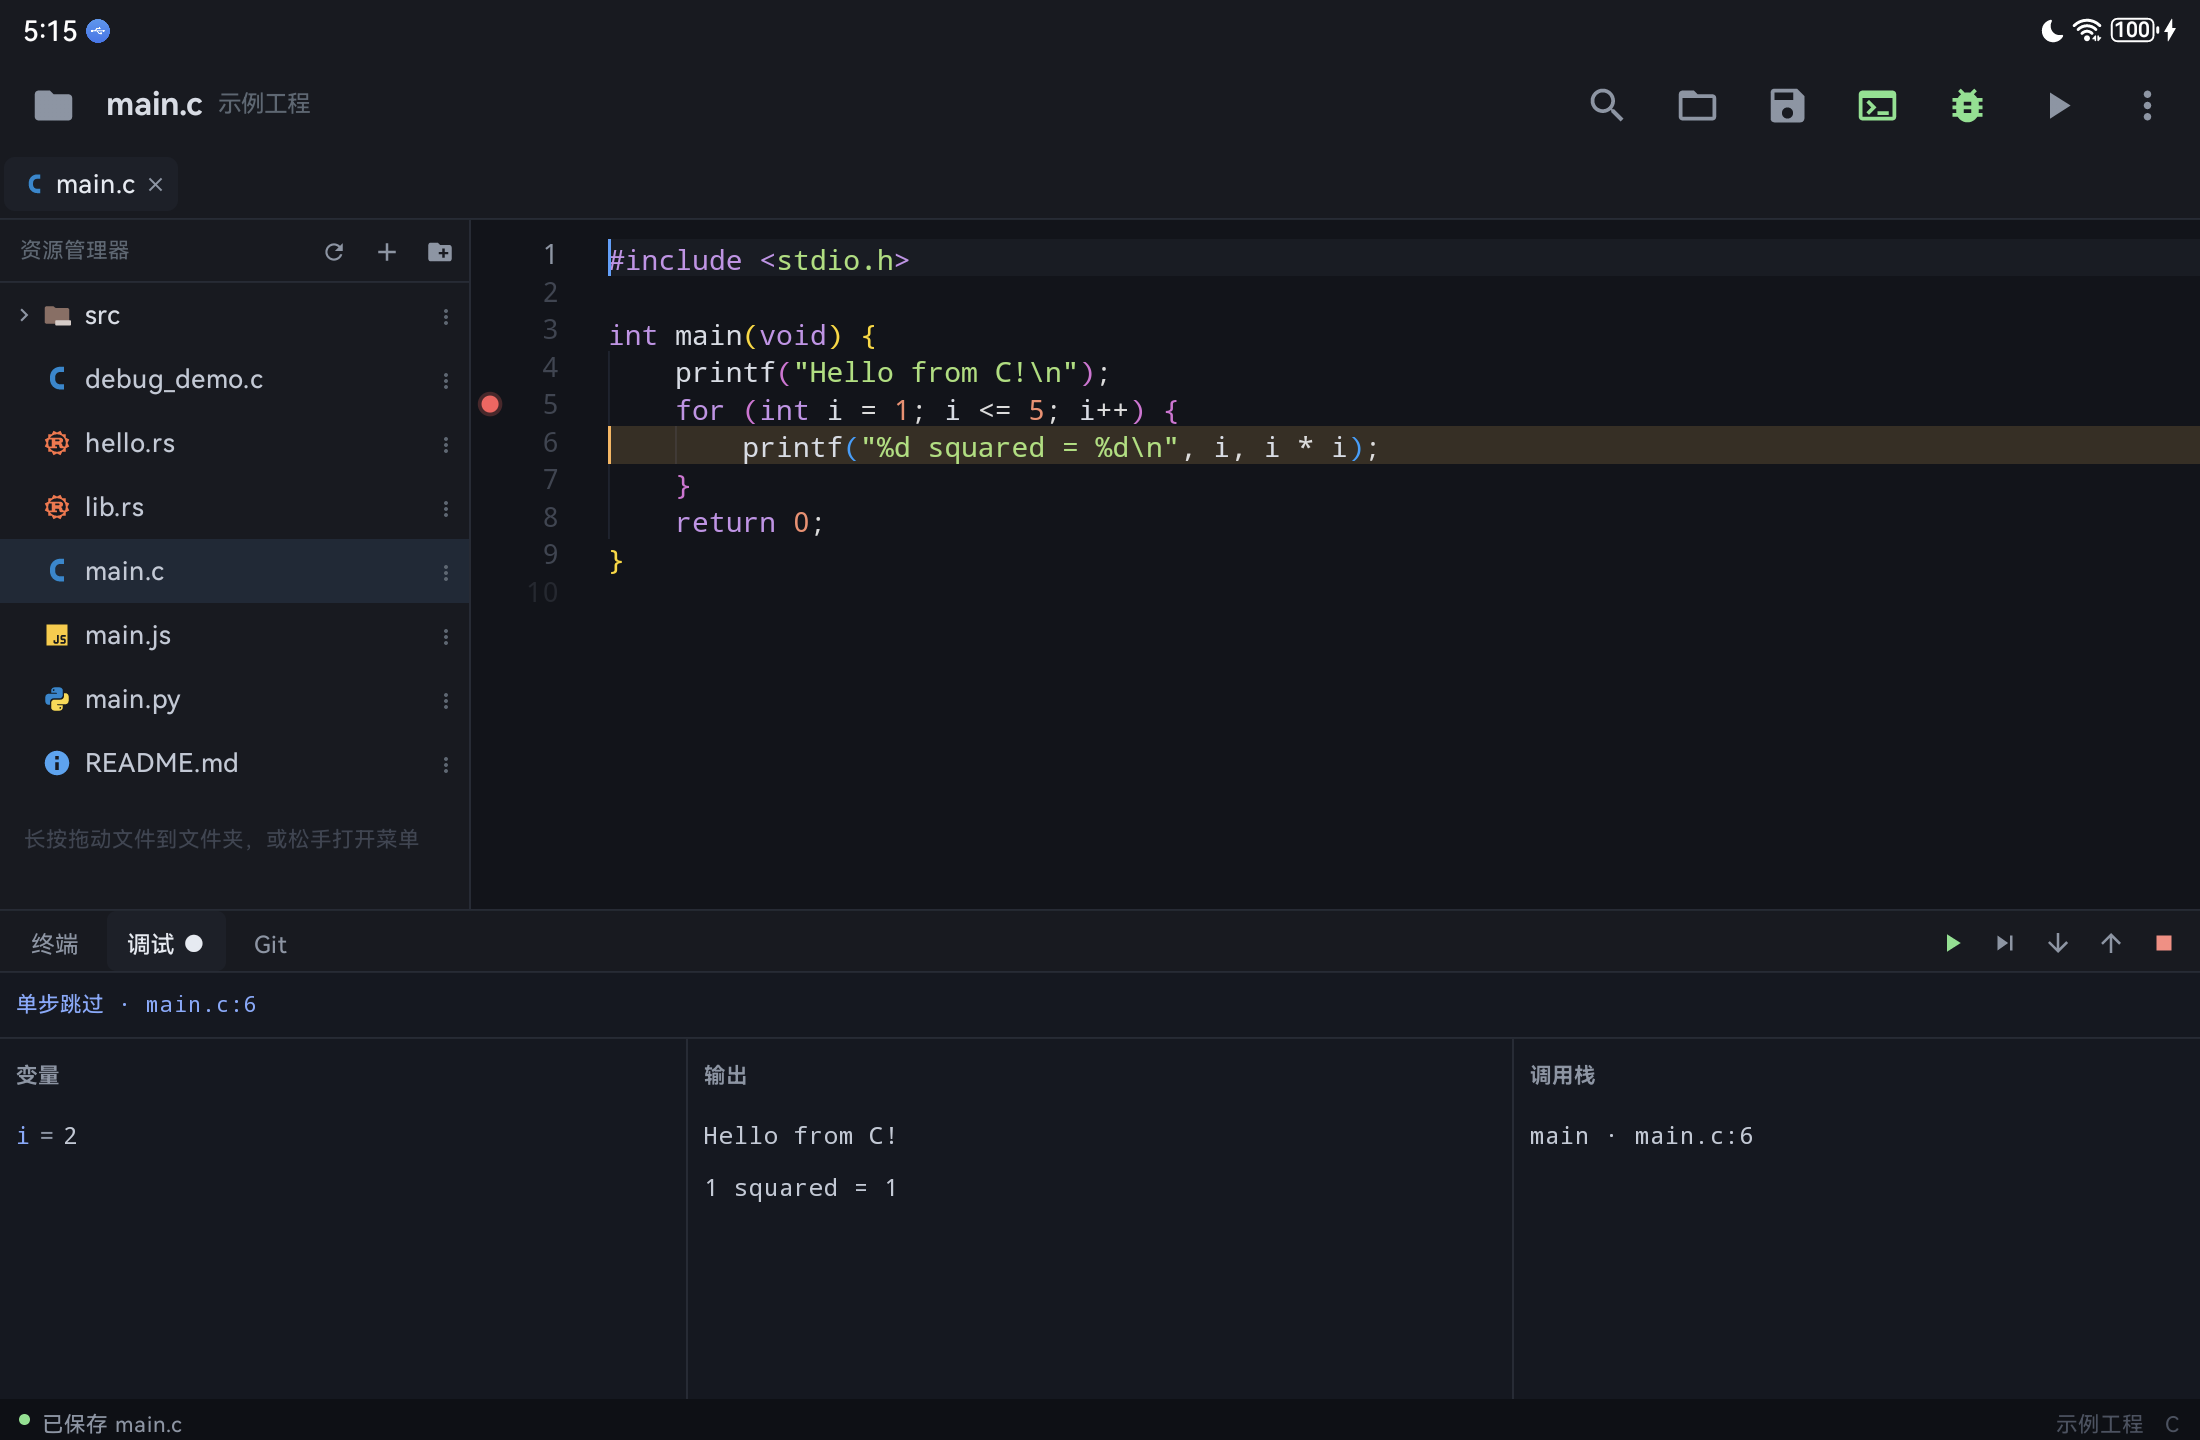
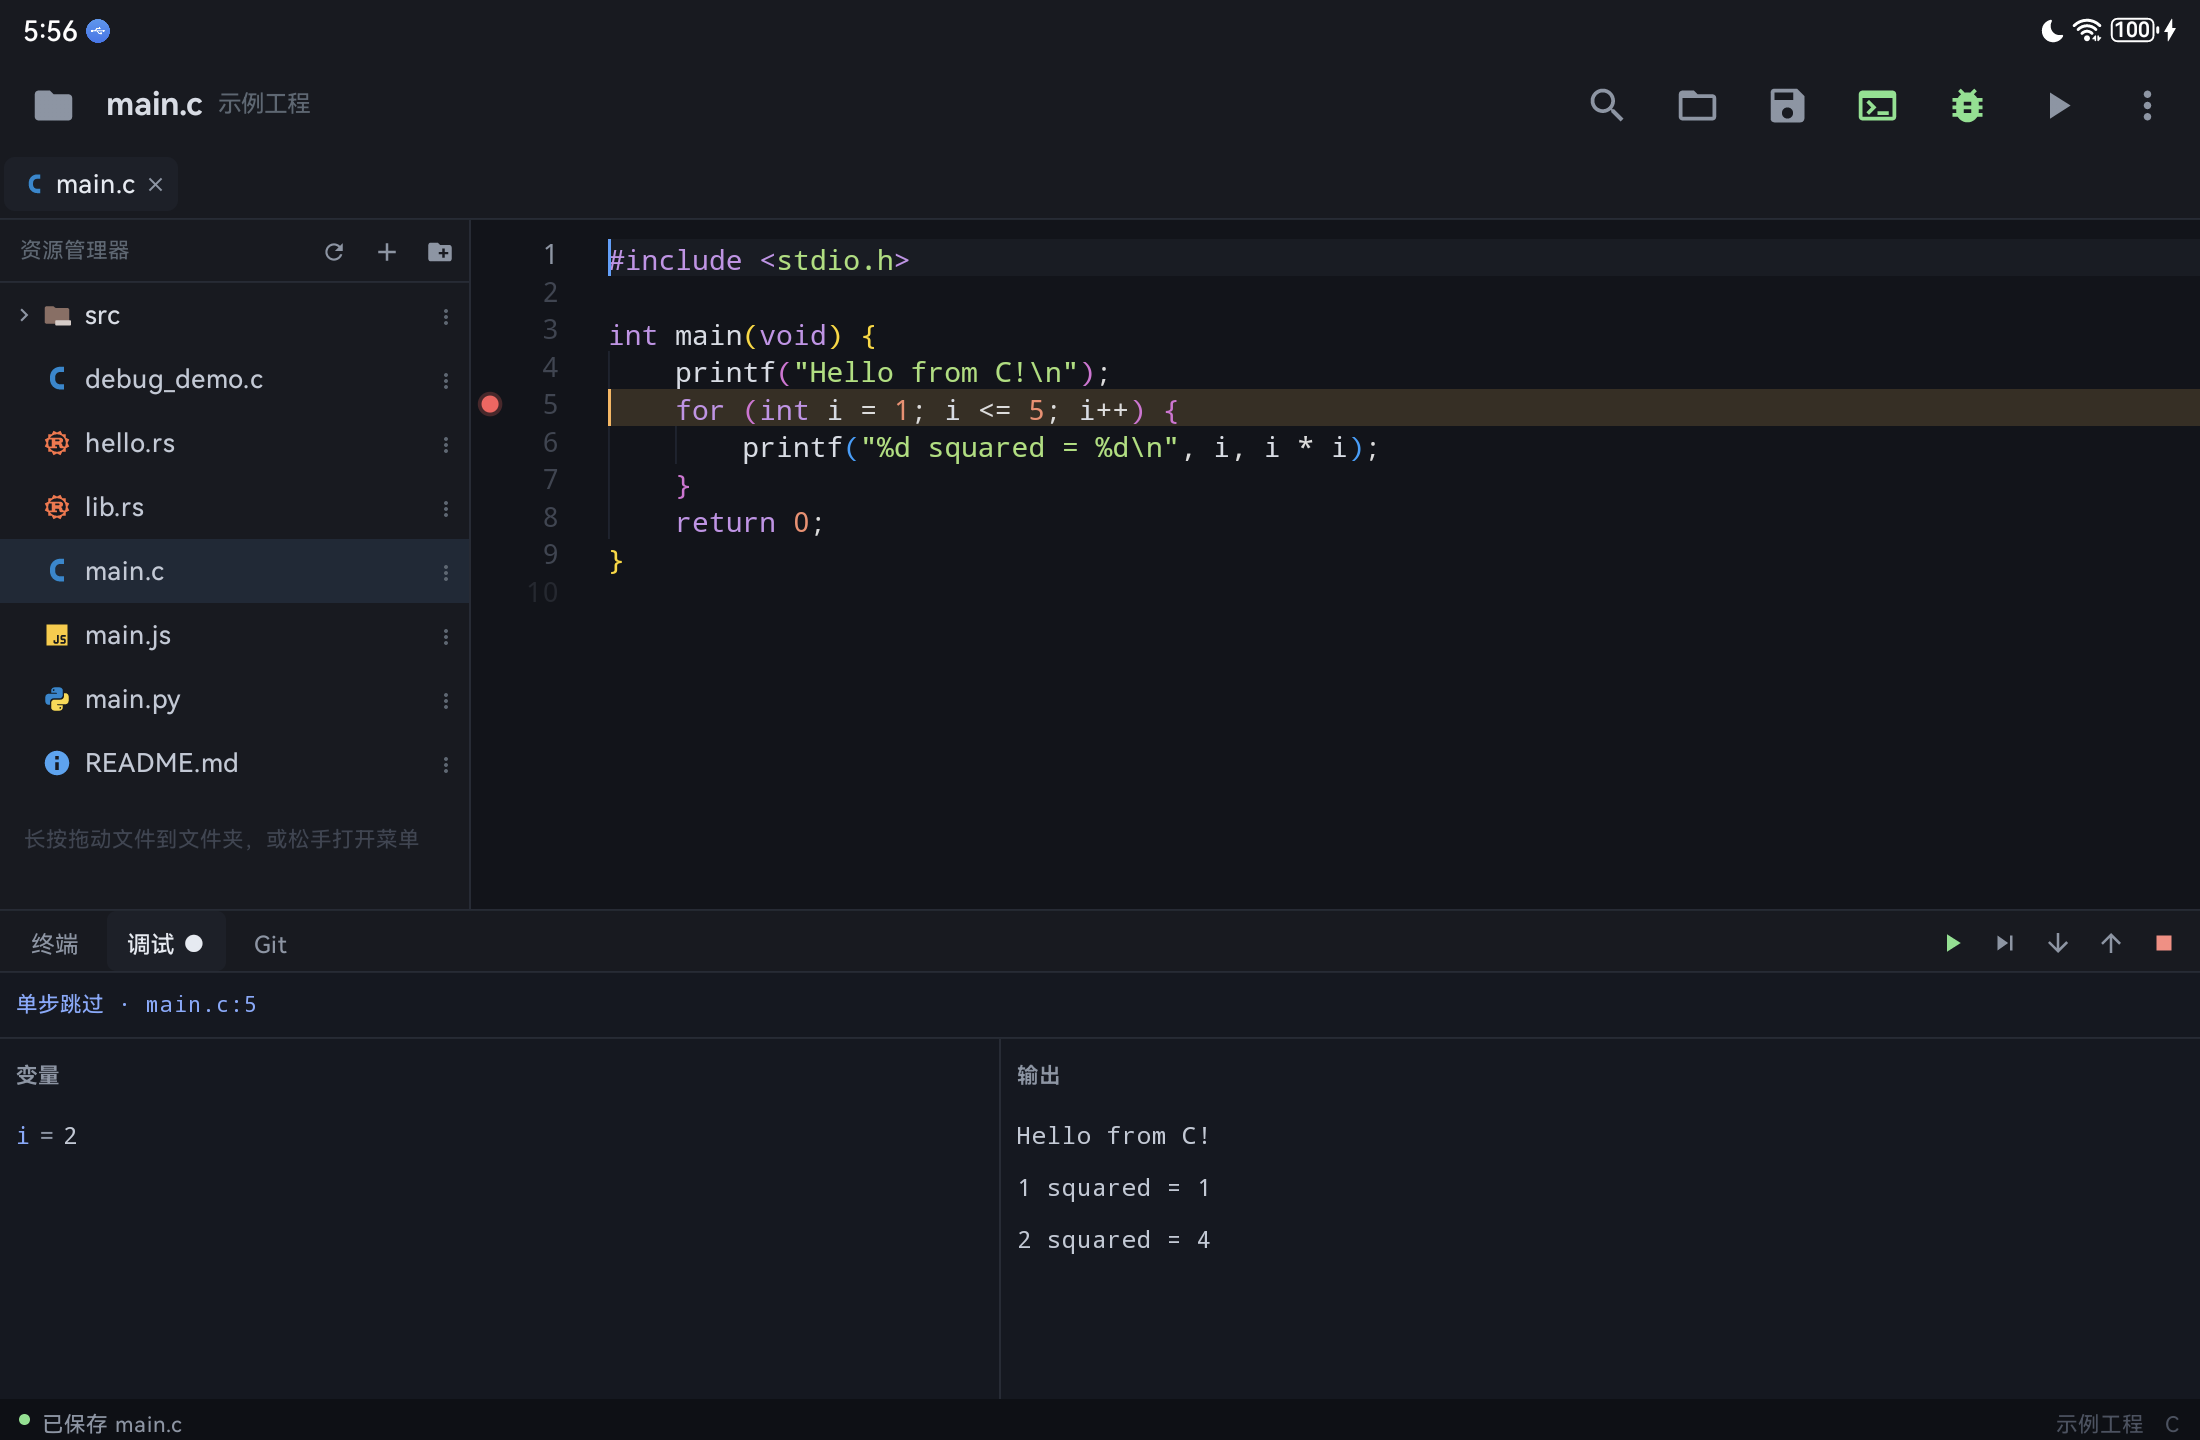
v4.8：调试单步重写、终端重启修复；调试面板去掉调用栈
调试
- 源码级单步：单步跳过/进入/跳出分别实现，一次走一行（原来三个按钮都是按指令单步）
- 单步跳过遇到被调用函数（含 printf 的 PLT 桩）时用返回地址下临时断点跑过整个调用
- 单步进入没有源码的库函数时按跳过处理，编辑器高亮不再消失
- } 和 for 里 i++ 这类没有语句的行不再停下来（有断点仍然停）
- 程序是否结束只认 gdbserver 的 W/X；PC 出源码范围不再误判为退出
- SIGSEGV 等致命信号停在出错行并提示，继续时按信号结束进程
- 变量按 DW_AT_decl_line 过滤；调试面板只保留「变量 + 程序输出」，去掉调用栈一栏
- 修 GdbClient 把 OK 当 O 包吞掉（卡在建断点）、会话隔离（停止后立刻重开调试互相干扰）

终端
- 重启终端改用 xterm reset()：clear() 会保留当前提示符行，导致新旧提示符粘在一行
- 终端行列真正同步给 PTY（原来一直是默认 24x80）；关闭后旧 shell 不再输出

文档
- README：调试能力与面板描述更新，换上新截图；下载区改为 v4.8 的体积与 SHA-256
- docs/RELEASE.md 冒烟项同步

versionCode 39 / versionName 4.8

diff --git a/app/src/main/java/com/codepad/ide/run/CDebugger.kt b/app/src/main/java/com/codepad/ide/run/CDebugger.kt
@@ -326,11 +326,10 @@ object CDebugger {
             val line = lineAt(rel)
             val regs = readRegs(gdb, st)
             val vars = if (regs != null) evalVars(gdb, regs, func, line) else emptyList()
-            val frames = if (regs != null) walkFrames(gdb, regs, base) else emptyList()
             val note = noteFor(st, func, line)
             pausedSignal = if (st.signal in FATAL_SIGNALS) st.signal else 0
             Log.i("CodePadRSP", "stop pc=0x" + java.lang.Long.toHexString(pc) + " line=" + line + " reason=" + st.reason)
-            publish(buildPause(pc, line, func?.name ?: "", vars, frames, st.reason, note))
+            publish(buildPause(pc, line, func?.name ?: "", vars, st.reason, note))
 
             val next = queue.poll(600, TimeUnit.SECONDS) ?: "k"
             if (next == "k") {
@@ -838,16 +837,11 @@ object CDebugger {
         line: Int,
         func: String,
         vars: List<Pair<String, String>>,
-        frames: List<Triple<String, String, Int>>,
         reason: String,
         note: String,
     ): String {
         val varsJson = JSONArray()
         vars.forEach { (n, v) -> varsJson.put(JSONObject().put("name", n).put("value", v)) }
-        val stackJson = JSONArray()
-        frames.forEach { (f, file, ln) ->
-            stackJson.put(JSONObject().put("func", f).put("file", file).put("line", ln))
-        }
         return JSONObject()
             .put("type", "pause")
             .put("reason", reason)
@@ -857,11 +851,10 @@ object CDebugger {
             .put("note", note)
             .put("file", srcName)
             .put("vars", varsJson)
-            .put("stack", stackJson)
             .toString()
     }
 
-    // ------------------------------------------------------------ 变量 / 调用栈
+    // ------------------------------------------------------------ 变量
 
     private fun compileRust(source: File, exe: File): Pair<Boolean, String> {
         val cmd = listOf(
@@ -1089,50 +1082,6 @@ object CDebugger {
             4 -> value.toInt().toString()
             else -> value.toString()
         }
-    }
-
-    private fun walkFrames(
-        gdb: GdbClient,
-        regs: LongArray,
-        base: Long,
-    ): List<Triple<String, String, Int>> {
-        val frames = ArrayList<Triple<String, String, Int>>()
-        // pc / lr / 帧指针链可能指向同一个函数同一行，去重，避免调用栈出现重复帧
-        fun add(f: Triple<String, String, Int>?) {
-            if (f == null) return
-            if (frames.isNotEmpty() && frames.last() == f) return
-            frames.add(f)
-        }
-        val pc = regs.getOrNull(32) ?: return frames
-        val topFunc = dwarf?.at(pc - base)
-        add(frameOf(pc, base) ?: Triple("0x" + java.lang.Long.toHexString(pc), "", 0))
-        // 叶子函数可能不建帧指针，x30 里是调用者的返回地址；
-        // 但同一个函数内部的 x30 只是上次调用的残留，不能算成一帧
-        val lr = regs.getOrNull(30) ?: 0L
-        if (lr > 0) {
-            val lrFunc = dwarf?.at(lr - base)
-            if (lrFunc == null || lrFunc.low != (topFunc?.low ?: -1L)) add(frameOf(lr, base))
-        }
-        var fp = regs.getOrNull(29) ?: return frames
-        var guard = 0
-        while (guard++ < 12 && fp > 0x1000) {
-            val ret = gdb.readLong(fp + 8) ?: break
-            val nextFp = gdb.readLong(fp) ?: break
-            if (ret == 0L) break
-            // 只保留能落到已知函数里的帧，链条一旦跑偏就停
-            val frame = frameOf(ret, base) ?: break
-            add(frame)
-            if (nextFp <= fp) break
-            fp = nextFp
-        }
-        return frames
-    }
-
-    private fun frameOf(pc: Long, base: Long): Triple<String, String, Int>? {
-        val rel = pc - base
-        val func = dwarf?.at(rel) ?: return null
-        val line = lineAt(rel)
-        return Triple(func.name, srcName, line)
     }
 
     // ------------------------------------------------------------ 生命周期

diff --git a/app/src/main/java/com/codepad/ide/IdeController.kt b/app/src/main/java/com/codepad/ide/IdeController.kt
@@ -528,7 +528,6 @@ class IdeController(private val activity: MainActivity) {
         private set
     var debugVars by mutableStateOf<List<Pair<String, String>>>(emptyList())
         private set
-    var debugStack by mutableStateOf<List<String>>(emptyList())
     var debugOut by mutableStateOf("")
         private set
 
@@ -580,7 +579,6 @@ class IdeController(private val activity: MainActivity) {
         debugFunc = ""
         debugFile = ""
         debugVars = emptyList()
-        debugStack = emptyList()
         debugOut = ""
         DebugBridge.listener = { json ->
             ui { onDebugState(json) }
@@ -630,7 +628,6 @@ class IdeController(private val activity: MainActivity) {
         debugFunc = ""
         debugFile = ""
         debugVars = emptyList()
-        debugStack = emptyList()
         DebugBridge.listener = { json -> ui { onDebugState(json) } }
         CDebugger.start(
             file,
@@ -727,18 +724,6 @@ class IdeController(private val activity: MainActivity) {
                     }
                 }
                 debugVars = vars
-                val stack = ArrayList<String>()
-                o.optJSONArray("stack")?.let { arr ->
-                    for (i in 0 until arr.length()) {
-                        val item = arr.optJSONObject(i) ?: continue
-                        val ln = item.optInt("line")
-                        stack.add(
-                            if (ln > 0) item.optString("func") + " · " + item.optString("file") + ":" + ln
-                            else item.optString("func")
-                        )
-                    }
-                }
-                debugStack = stack
                 if (debugLine > 0) js("CP.setDebugLine($debugLine)")
             }
             "exit" -> {
@@ -803,7 +788,6 @@ class IdeController(private val activity: MainActivity) {
         debugStarted = false
         debugReason = message
         debugVars = emptyList()
-        debugStack = emptyList()
         debugLine = 0
         debugNote = ""
         debugFunc = ""

diff --git a/app/src/main/java/com/codepad/ide/Ui.kt b/app/src/main/java/com/codepad/ide/Ui.kt
@@ -1233,23 +1233,6 @@ private fun DebugContent(c: IdeController) {
                     )
                 }
             }
-            Box(Modifier.width(1.dp).fillMaxHeight().background(Stroke))
-            Column(Modifier.weight(1f).fillMaxHeight().padding(horizontal = 8.dp, vertical = 6.dp)) {
-                Text(Loc.t("调用栈"), fontSize = 10.sp, color = Muted, fontWeight = FontWeight.SemiBold)
-                Spacer(Modifier.height(4.dp))
-                LazyColumn {
-                    items(c.debugStack) { frame ->
-                        Text(
-                            frame,
-                            fontSize = 11.sp,
-                            color = Color(0xFFC2C9D6),
-                            fontFamily = FontFamily.Monospace,
-                            maxLines = 1,
-                            overflow = TextOverflow.Ellipsis,
-                        )
-                    }
-                }
-            }
         }
     }
 }

diff --git a/README.md b/README.md
@@ -20,7 +20,7 @@
 |---|---|---|
 | 编辑器 | 简易高亮 | Monaco（VS Code 同款） |
 | 运行 | 只有脚本语言 | C/C++/Rust/Python/JS/Shell 都能真编译真跑 |
-| 调试 | 打印日志 | gdbserver + DWARF：断点、源码级单步、变量、调用栈 |
+| 调试 | 打印日志 | gdbserver + DWARF：断点、源码级单步、变量、程序输出 |
 | 补全 | 关键词 | clangd / rust-analyzer（LSP） |
 | 版本控制 | 无 | 内置 git，状态/diff/暂存/提交 |
 
@@ -58,15 +58,16 @@
 
 ### 调试
 
-> 断点、源码级单步、变量、调用栈可用。C/C++/Rust 一次单步走一行；走进没有源码的库函数
-> 时会如实提示「没有对应的源码行」，跳出可以直接回到调用处。
+> 断点、源码级单步、变量、程序输出可用。C/C++/Rust 一次单步走一行，`}`、`for` 里的
+> `i++` 这类没有语句的行不会卡住；进入 `printf` 这种没有源码的库函数时按跳过处理，
+> 跳出可以直接回到调用处。
 
 - 断点：点行号左侧红点，支持条件无、命中高亮
 - 步进：继续 / 单步跳过 / 单步进入 / 跳出 / 停止
   - 单步跳过不会钻进 `printf` 之类的库函数：走到 `bl` 时用返回地址下临时断点跑过去
   - 单步进入会进到被调用函数的第一行；跳出从帧指针链取返回地址跑回调用处
-  - 单步时面板保持不动（变量/调用栈/输出都还在），顶栏一行显示「单步跳过 · main.c:16」
-- 面板：局部变量、调用栈（文件:行号）
+  - 单步时面板保持不动（变量和输出都还在），顶栏一行显示「单步跳过 · main.c:16」
+- 面板：左边局部变量，右边程序输出（printf 的实时输出）
 - C/C++/Rust 走 gdbserver + 自研 DWARF 解析；Python 用 `sys.settrace`；JS 用 QuickJS 行级钩子
 - Rust 能展开 `String`、`Vec<T>`、结构体字段（处理了 Rust 字段重排和指针 MTE 标记）
 - 崩溃（SIGSEGV 等）会停在出错行并显示信号，按「继续」结束会话
@@ -96,14 +97,14 @@
 
 只提供 **arm64-v8a**，要求 Android 8.0+。
 
-`v4.7` 的 APK 校验信息：
+`v4.8` 的 APK 校验信息：
 
 ```
-CodePad-4.7-arm64.apk   226.4 MB (237,392,931 字节)
-SHA-256: 7a0721ae9352bc852c456586548145af69c37bad6655bd978f9a7430d89e7e4a
+CodePad-4.8-arm64.apk   219.7 MB (230,376,349 字节)
+SHA-256: a86d3f99c9c6cf83512fd8ff88b1f67efa3b4bc7c2eed364f7fecd65ce68b0e0
 ```
 
-APK 约 226MB，因为内置了完整的 C/C++/Rust 工具链。
+APK 约 220MB，因为内置了完整的 C/C++/Rust 工具链。
 
 ## 构建
 

diff --git a/docs/RELEASE.md b/docs/RELEASE.md
@@ -44,7 +44,7 @@
 - [ ] 冷启动：**不自动弹输入法**、底部终端/Git 可见、没有崩溃
 - [ ] 打开文件：点一下就能编辑，语法高亮正常
 - [ ] 运行 C：点 ▶ 出输出（走内置 TCC，应当秒出）
-- [ ] 调试 C：点行号加断点 → 🐞 → 停在断点行，变量和调用栈有内容
+- [ ] 调试 C：点行号加断点 → 🐞 → 停在断点行，变量和程序输出有内容
   - 首次调试会解压工具链，确认**调试页显示进度**而不是空白
 - [ ] 搜索：搜一个词，结果能点，跳转到正确行
 - [ ] 设置：改字号立即生效
